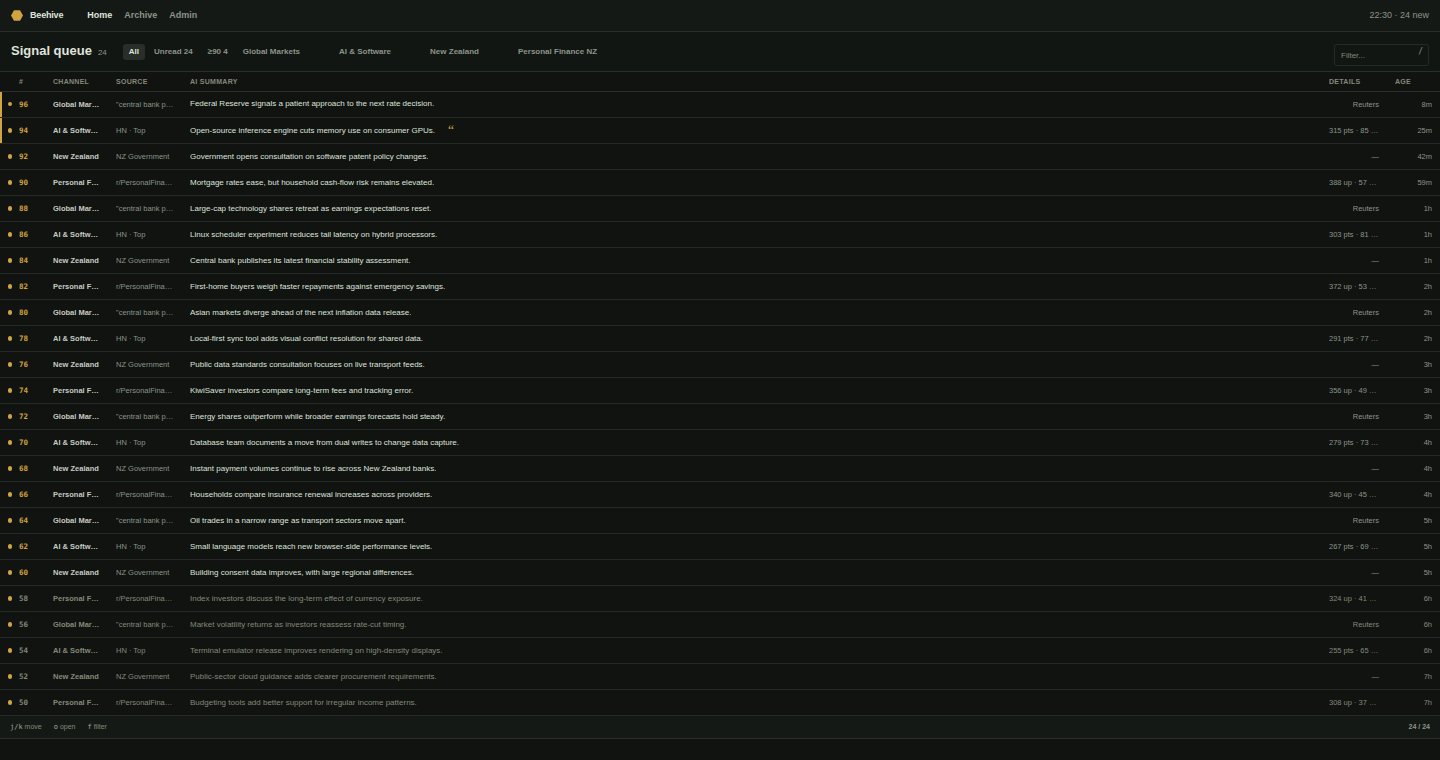
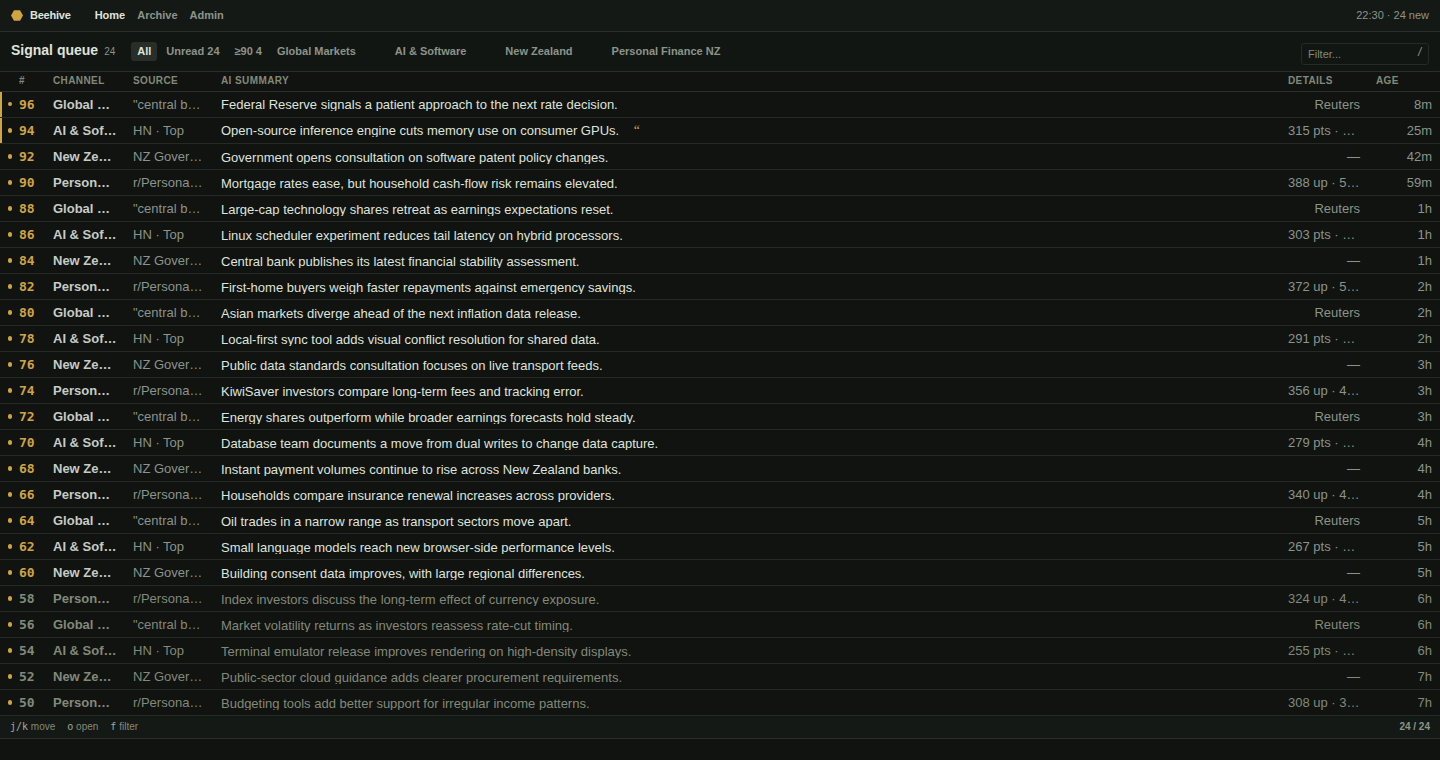
fix: increase dashboard text readability
Raise dense dashboard typography to readable default-zoom sizes while preserving 26px desktop rows and responsive behavior.

Copilot-Session: f7342cbd-3f7f-429f-bf9c-ed34de888cea

diff --git a/src/beehive/web/static/beehive.css b/src/beehive/web/static/beehive.css
@@ -271,21 +271,21 @@ h1{
   justify-content:flex-start;
   gap:.4375rem;
 }
-.page-dashboard .brand{gap:.4375rem;font-size:.5625rem}
+.page-dashboard .brand{gap:.4375rem;font-size:.6875rem}
 .page-dashboard .brand-mark{width:.75rem}
 .page-dashboard .brand-mark::after{display:none}
-.page-dashboard .brand-name{font-size:.5625rem}
+.page-dashboard .brand-name{font-size:.6875rem}
 .page-dashboard .site-nav{margin-left:1.0625rem;gap:.75rem}
 .page-dashboard .site-nav a{
   padding:0;
-  font-size:.5625rem;
+  font-size:.6875rem;
   font-weight:600;
 }
 .page-dashboard .site-nav a::after{display:none}
 .dashboard-clock{
   margin-left:auto;
   color:var(--muted);
-  font-size:.5625rem;
+  font-size:.6875rem;
   font-variant-numeric:tabular-nums;
 }
 .dashboard-shell{
@@ -313,12 +313,12 @@ h1{
   max-width:none;
   margin:0;
   font-family:var(--font-sans);
-  font-size:.8125rem;
+  font-size:.875rem;
   font-weight:680;
   letter-spacing:0;
   line-height:1;
 }
-.dashboard-title span{color:var(--muted);font-size:.5rem;font-variant-numeric:tabular-nums}
+.dashboard-title span{color:var(--muted);font-size:.625rem;font-variant-numeric:tabular-nums}
 .dashboard-tabs{
   display:flex;
   min-width:0;
@@ -336,7 +336,7 @@ h1{
   padding:.25rem .375rem;
   border-radius:.1875rem;
   color:var(--muted);
-  font-size:.5rem;
+  font-size:.6875rem;
   font-weight:680;
   line-height:1;
 }
@@ -357,7 +357,7 @@ h1{
   place-items:center;
   background:var(--surface-raised);
   color:var(--accent);
-  font-size:.5625rem;
+  font-size:.75rem;
   opacity:0;
   pointer-events:none;
   transform:translateY(-50%);
@@ -370,7 +370,7 @@ h1{
 .dashboard-search{
   position:relative;
   flex:none;
-  width:5.9375rem;
+  width:8rem;
   height:1.375rem;
   margin-left:auto;
 }
@@ -384,7 +384,7 @@ h1{
   border-radius:.1875rem;
   background:var(--bg-soft);
   color:var(--text);
-  font-size:.5rem;
+  font-size:.6875rem;
 }
 .dashboard-search-shortcut{
   position:absolute;
@@ -392,7 +392,7 @@ h1{
   right:.375rem;
   color:var(--muted);
   font-family:ui-monospace,SFMono-Regular,Consolas,monospace;
-  font-size:.5rem;
+  font-size:.625rem;
   pointer-events:none;
   transform:translateY(-50%);
 }
@@ -407,28 +407,29 @@ h1{
 }
 .signal-state-col{width:.6875rem}
 .signal-score-col{width:2.125rem}
-.signal-channel-col{width:3.9375rem}
-.signal-source-col{width:4.625rem}
-.signal-engagement-col{width:4.125rem}
-.signal-age-col{width:3.3125rem}
+.signal-channel-col{width:5rem}
+.signal-source-col{width:5.5rem}
+.signal-engagement-col{width:5.5rem}
+.signal-age-col{width:4.5rem}
 .signal-table th{
   height:1.1875rem;
   padding:0 .5rem;
   border-bottom:1px solid var(--border-strong);
   color:var(--muted-2);
-  font-size:.4375rem;
+  font-size:.625rem;
   font-weight:680;
   letter-spacing:.04em;
   line-height:1;
   text-align:left;
   text-transform:uppercase;
+  white-space:nowrap;
 }
 .signal-table td{
   height:var(--dashboard-row-height);
   padding:0 .5rem;
   border-bottom:1px solid var(--border);
   color:var(--muted);
-  font-size:.46875rem;
+  font-size:.8125rem;
   line-height:1;
   vertical-align:middle;
 }
@@ -474,7 +475,7 @@ h1{
   display:inline-block;
   max-width:calc(100% - 1.7rem);
   color:var(--text-soft);
-  font-size:.5rem;
+  font-size:.8125rem;
   font-weight:520;
   vertical-align:middle;
 }
@@ -515,7 +516,7 @@ h1{
   background:var(--surface);
   color:var(--muted);
   font-family:var(--font-sans);
-  font-size:.64rem;
+  font-size:.75rem;
   line-height:1.45;
   white-space:normal;
 }
@@ -528,7 +529,7 @@ h1{
   gap:.75rem;
   background:#151915;
   color:var(--muted-2);
-  font-size:.4375rem;
+  font-size:.625rem;
 }
 .signal-statusbar kbd{color:#a1aaa2;font-family:ui-monospace,SFMono-Regular,Consolas,monospace}
 .signal-statusbar b{margin-left:auto;color:var(--muted);font-weight:600;font-variant-numeric:tabular-nums}
@@ -1047,19 +1048,19 @@ select{
   }
   .dashboard-title{width:100%;justify-content:space-between}
   .dashboard-tabs{order:2;flex:1 1 0}
-  .dashboard-search{width:6rem;margin:0;order:3}
+  .dashboard-search{width:8rem;margin:0;order:3}
   .signal-source-col,.signal-engagement-col,
   .signal-source-heading,.signal-engagement-heading,
   .signal-source,.signal-engagement{display:none}
   .signal-score-col{width:2.55rem}
   .signal-channel-col{width:6.25rem}
-  .signal-age-col{width:3rem}
+  .signal-age-col{width:4.5rem}
   .signal-table th{height:1.45rem;padding-inline:.3rem}
-  .signal-table td{height:3rem;padding:.3rem;font-size:.64rem}
+  .signal-table td{height:3rem;padding:.3rem;font-size:.8125rem}
   .signal-summary{
     display:-webkit-box;
     overflow:hidden;
-    font-size:.68rem;
+    font-size:.8125rem;
     line-height:1.35;
     white-space:normal;
     -webkit-box-orient:vertical;

diff --git a/tests/web/test_templates.py b/tests/web/test_templates.py
@@ -89,7 +89,7 @@ def test_dashboard_matches_selected_a2_pixel_contract():
 
     age_column = re.search(r"\.signal-age-col\{([^}]*)\}", css)
     assert age_column is not None
-    assert "width:3.3125rem" in age_column.group(1)
+    assert "width:4.5rem" in age_column.group(1)
 
     assert ".channel-strip{" not in css
     assert ".signal-row.is-dim{opacity:" not in css
@@ -99,6 +99,23 @@ def test_dashboard_matches_selected_a2_pixel_contract():
     assert 'class="dashboard-search-shortcut"' in template
     assert 'id="dashboard-selection-status"' in template
     assert 'aria-live="polite"' in template
+
+
+def test_dashboard_typography_is_readable_at_default_zoom():
+    css = (_STATIC_DIR / "beehive.css").read_text()
+    expected_sizes = {
+        r"\.dashboard-tabs>a,\s*\.dashboard-tabs>span:not\(\.dashboard-channel-tab\),"
+        r"\s*\.dashboard-tabs>strong,\s*\.dashboard-channel-link": ".6875rem",
+        r'\.dashboard-search input\[type="search"\]': ".6875rem",
+        r"\.signal-table th": ".625rem",
+        r"\.signal-table td": ".8125rem",
+        r"(?m)^\.signal-summary": ".8125rem",
+        r"\.signal-statusbar": ".625rem",
+    }
+    for selector, font_size in expected_sizes.items():
+        declaration = re.search(rf"{selector}\{{([^}}]*)\}}", css)
+        assert declaration is not None
+        assert f"font-size:{font_size}" in declaration.group(1)
 
 
 def test_channel_scripts_use_the_static_asset_fingerprint():